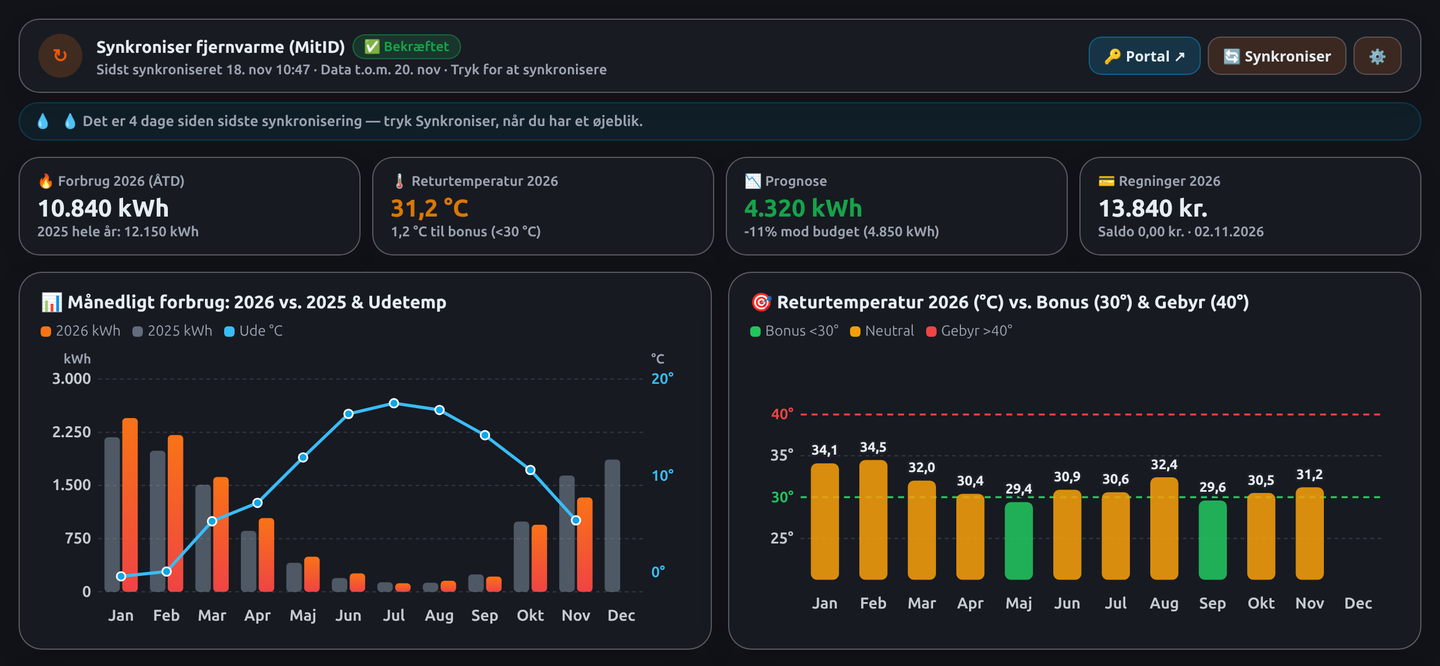
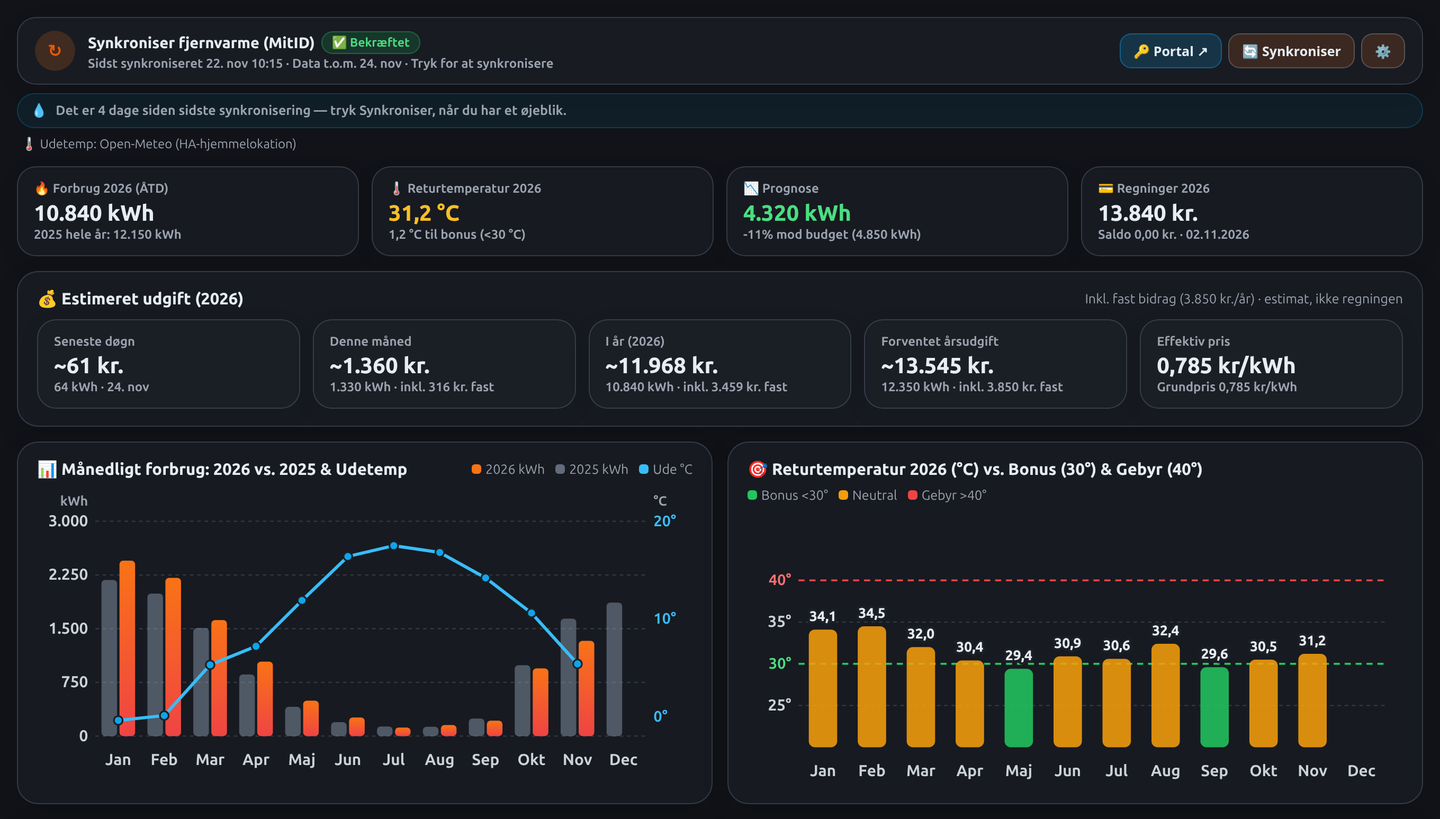
Refresh anonymized v1.3.1 screenshots and demo GIF

diff --git a/README.md b/README.md
@@ -14,12 +14,16 @@ Log ind med **MitID direkte i Home Assistant** i ren Python (OIDC PKCE + NemLog-
 ## 📸 Screenshots & Demo
 
 <p align="center">
-  <img src="docs/screenshots/kmd-fjernvarme-demo.gif" alt="KMD Fjernvarme HA Demo (MitID QR, sync og grafer)" width="780" />
+  <img src="docs/screenshots/kmd-fjernvarme-demo.gif" alt="Dansk Fjernvarme HA Demo (MitID QR, sync, hover-tooltip og grafer)" width="780" />
 </p>
 
-| Desktop-overblik (inkl. weekend-påmindelse) | MitID QR & Notifikations-dropdown | Mobil-grafer & Spidstime |
-| :---: | :---: | :---: |
-| <img src="docs/screenshots/kmd-fjernvarme-desktop-overview.png" alt="Desktop overblik" width="320" /> | <img src="docs/screenshots/kmd-fjernvarme-setup-mitid.png" alt="MitID QR opsætning" width="280" /> | <img src="docs/screenshots/kmd-fjernvarme-mobile-charts.png" alt="Mobil grafer" width="160" /> |
+| Desktop-overblik (inkl. 💰 årsudgift & weekend-puf) | Dynamisk afkølingstarif (Watts On / Hillerød) |
+| :---: | :---: |
+| <img src="docs/screenshots/kmd-fjernvarme-desktop-overview.png" alt="Desktop overblik inkl. forventet årsudgift" width="420" /> | <img src="docs/screenshots/kmd-fjernvarme-dynamic-tariff.png" alt="Dynamisk fremløbsafhængig afkølingstarif på Watts On" width="420" /> |
+
+| MitID QR & pris-/abonnementsindstillinger | Mobil-grafer & Spidstime |
+| :---: | :---: |
+| <img src="docs/screenshots/kmd-fjernvarme-setup-mitid.png" alt="MitID QR opsætning og prisindstillinger" width="380" /> | <img src="docs/screenshots/kmd-fjernvarme-mobile-charts.png" alt="Mobil grafer" width="210" /> |
 
 ---
 
